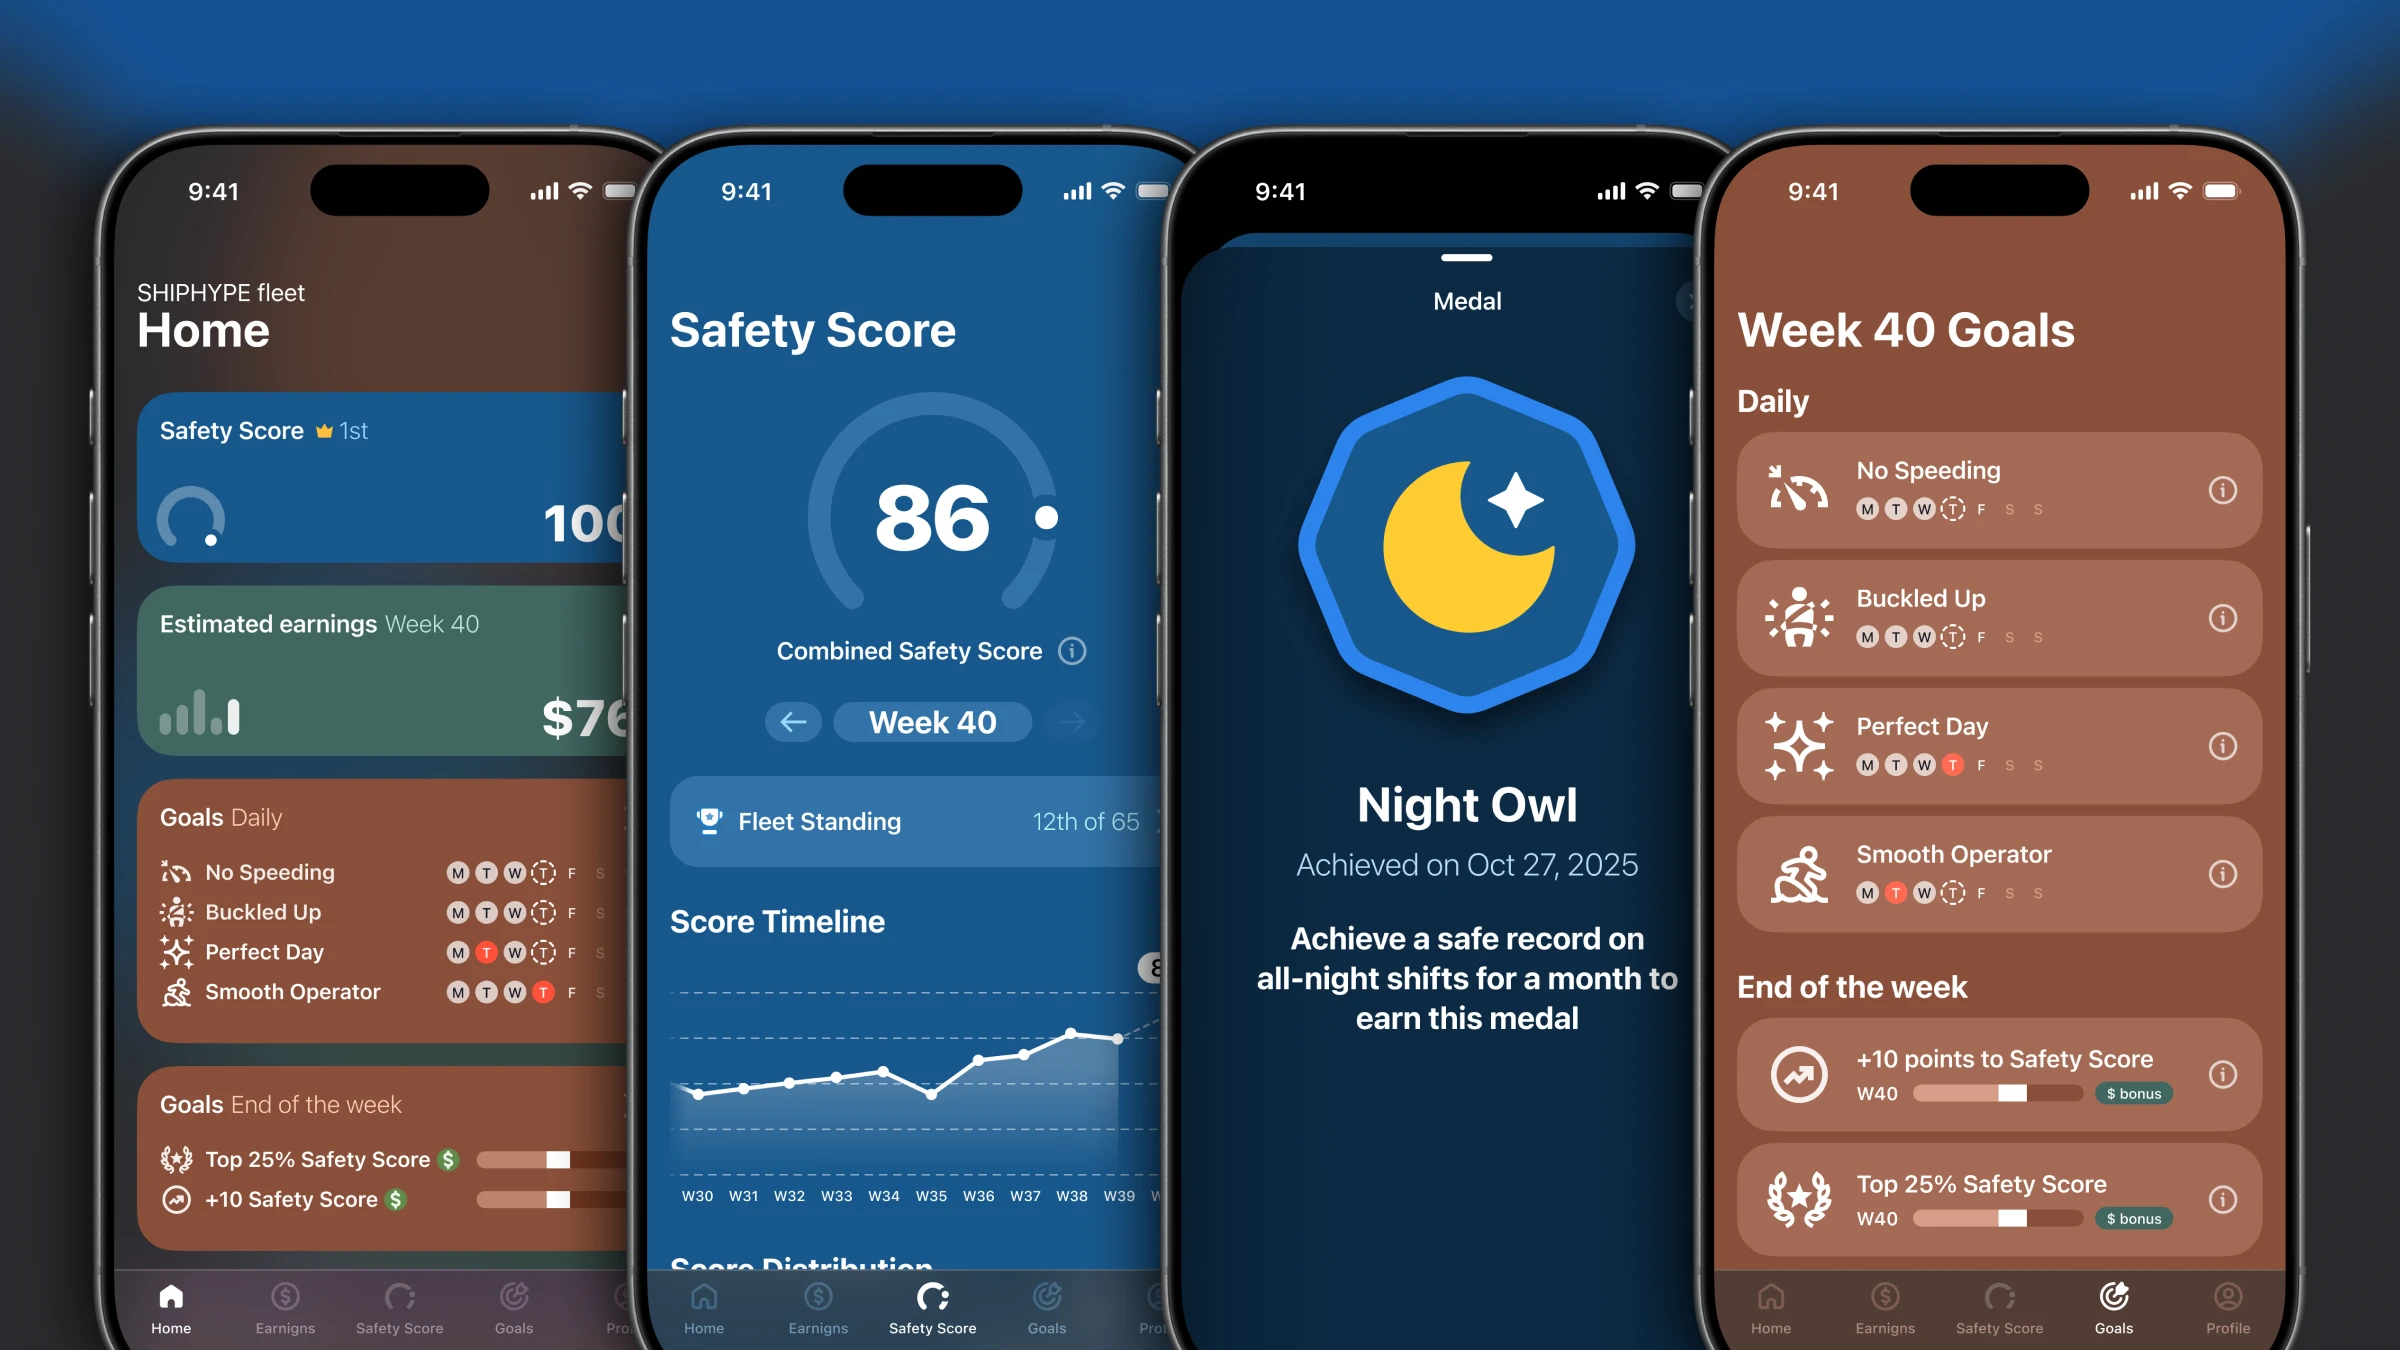
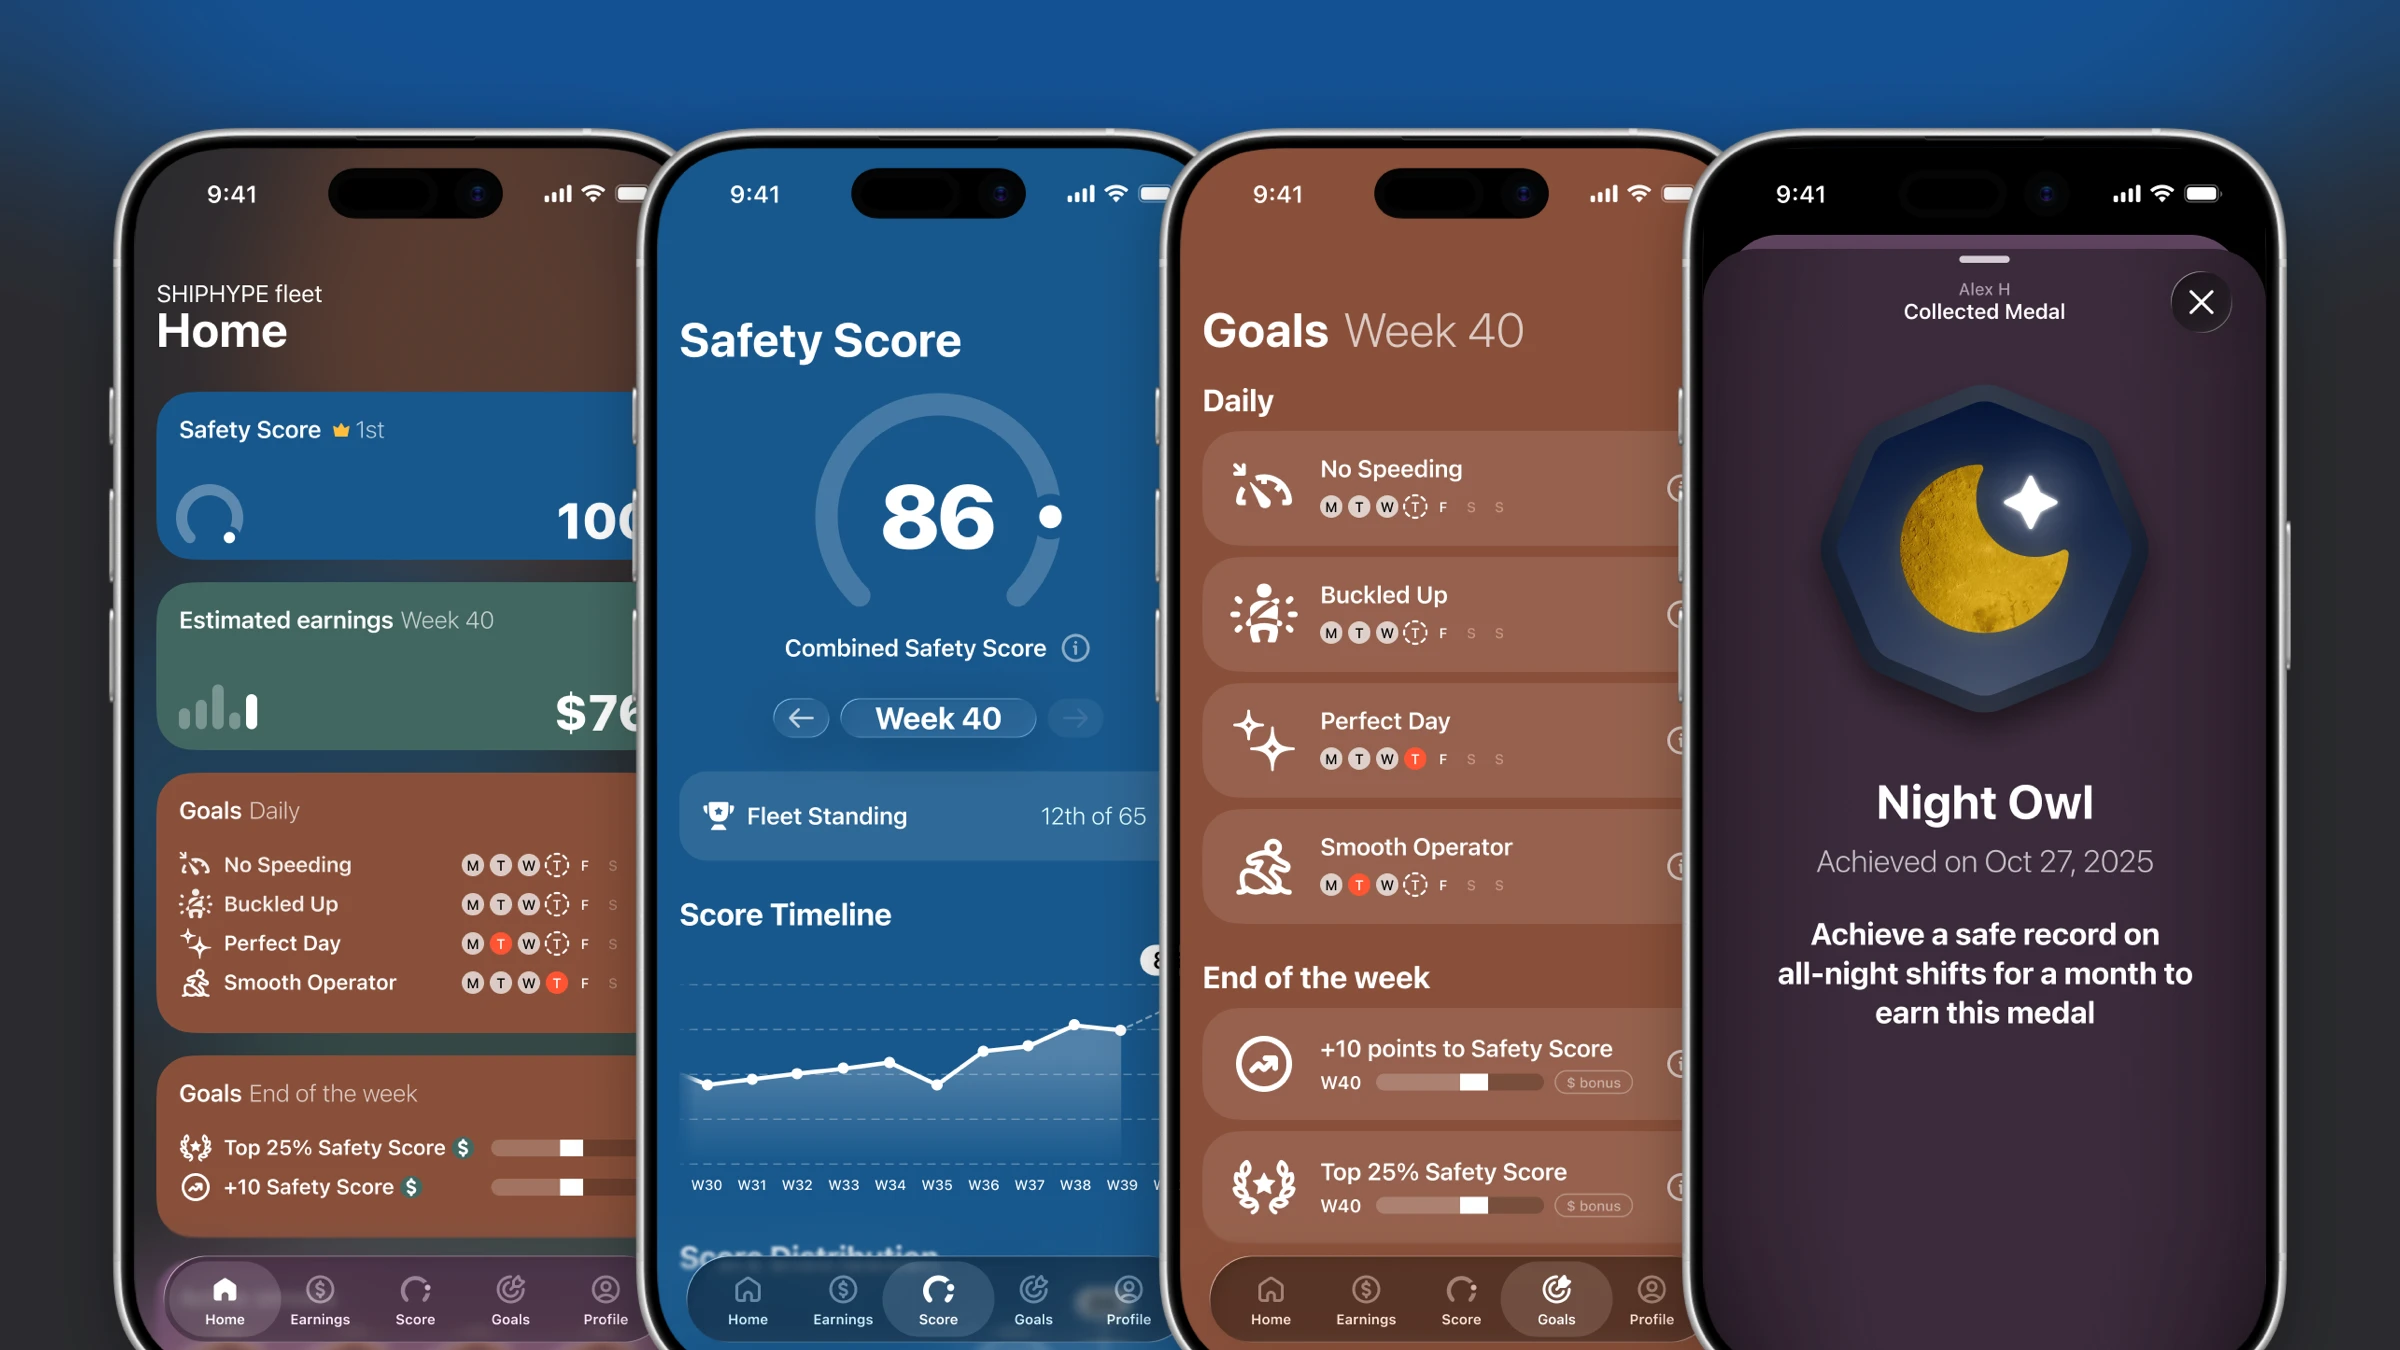
axenor driver mobile app project pub

diff --git a/projects/axenor-driver.html b/projects/axenor-driver.html
@@ -1,0 +1,128 @@
+<!DOCTYPE html>
+<html lang="en">
+
+<head>
+    <meta charset="utf-8">
+    <meta name="viewport" content="width=device-width, initial-scale=1.0, shrink-to-fit=no">
+    <title>[PROJECT TITLE] by Alex Hladkyi · Digital Product Designer</title>
+    <link rel="canonical" href="https://alexhladkyi.com/projects/axenor-driver.html">
+    <meta property="og:url" content="https://alexhladkyi.com/projects/axenor-driver.html">
+    <meta name="twitter:card" content="summary">
+    <meta name="twitter:description" content="A selection of design work by Alexander Hladkyi. I design iOS, android and desktop apps, websites, app icons and icon sets. Need a designer? Get in touch.">
+    <meta name="twitter:title" content="Alex Hladkyi • Digital Product Designer">
+    <meta property="og:type" content="website">
+    <meta name="description" content="[PROJECT DESCRIPTION]">
+    <meta property="og:image" content="https://alexhladkyi.com/assets/img/project-thumbnails/00-project-thumbnail-16by9.png">
+    <meta name="twitter:image" content="https://alexhladkyi.com/assets/img/project-thumbnails/00-project-thumbnail-16by9.png">
+    <link rel="apple-touch-icon" type="image/png" sizes="180x180" href="../assets/img/homescreen-ios.png">
+    <link rel="icon" type="image/png" sizes="32x32" href="../assets/img/favicon.png">
+    <link rel="icon" type="image/png" sizes="32x32" href="../assets/img/favicon.png">
+    <link rel="icon" type="image/png" sizes="180x180" href="../assets/img/homescreen-ios.png">
+    <link rel="icon" type="image/png" sizes="192x192" href="../assets/img/homescreen-android.png">
+    <link rel="stylesheet" href="../assets/bootstrap/css/bootstrap.min.css">
+    <link rel="stylesheet" href="../assets/css/styles.css">
+</head>
+
+<body>
+    <main>
+        <section>
+            <div class="container-fluid d-flex justify-content-center align-items-center logo-block"><a class="d-flex justify-content-center align-items-center hitarea" href="../index.html">
+                    <div class="cube-setup setup-anim">
+                        <div class="cube">
+                            <div class="faces face-top"></div>
+                            <div class="faces face-side1"></div>
+                            <div class="faces face-side2"></div>
+                            <div class="faces face-side3"></div>
+                            <div class="faces face-side4"></div>
+                            <div class="faces face-bottom"></div>
+                        </div>
+                    </div>
+                </a></div>
+        </section>
+        <section class="sectiongap">
+            <div class="container text-center">
+                <div class="row">
+                    <div class="col text-block">
+                        <h1>Mobile Driver app for Axenor</h1>
+                    </div>
+                </div>
+            </div>
+        </section>
+        <section class="sectiongap project-img">
+            <div class="container-fluid">
+                <div class="row">
+                    <div class="col"><img class="project-img" src="../assets/img/projects/axenor/axenor-driver-000-cover.webp"></div>
+                </div>
+                <section class="sectiongap"></section>
+                <div class="row proj-txt-mrgn">
+                    <div class="col text-block">
+                        <h2>About the project</h2>
+                        <p><a href="http://axenor.ai">Axenor.ai</a> is the safety and risk reduction platform for trucking fleets that integrates telematics, in‑cab signals, and operations data to drive coaching, incentives, and policy compliance.</p>
+                        <p>I was approached by the client to design a companion mobile app for their service that would surface key performance indicators to the drivers of trucking fleets.</p>
+                        <p>For v1 the focus was limited to:</p>
+                        <p>– Showing fleet drivers their Safety Scores and events that contribute to it<br>– Helping drivers track their daily and weekly goals<br>– Showing them estimated monetary end of the week bonuses<br>– Adding light gamification elements like streaks, achievements and leaderboards</p>
+                        <p><em>I was the sole designer on the project.</em></p>
+                    </div>
+                </div>
+                <div class="row row-cols-2 row-cols-sm-2 row-cols-md-2 row-cols-lg-3 row-cols-xl-3 row-cols-xxl-4 justify-content-center">
+                    <div class="col d-grid"><a href="../assets/img/projects/axenor/axenor-driver-001.webp"><img src="../assets/img/projects/axenor/axenor-driver-001.webp"></a></div>
+                    <div class="col d-grid"><a href="../assets/img/projects/axenor/axenor-driver-002.webp"><img src="../assets/img/projects/axenor/axenor-driver-002.webp"></a></div>
+                    <div class="col d-grid"><a href="../assets/img/projects/axenor/axenor-driver-003.webp"><img src="../assets/img/projects/axenor/axenor-driver-003.webp"></a></div>
+                    <div class="col d-grid"><a href="../assets/img/projects/axenor/axenor-driver-004.webp"><img src="../assets/img/projects/axenor/axenor-driver-004.webp"></a></div>
+                    <div class="col d-grid"><a href="../assets/img/projects/axenor/axenor-driver-005.webp"><img src="../assets/img/projects/axenor/axenor-driver-005.webp"></a></div>
+                    <div class="col d-grid"><a href="../assets/img/projects/axenor/axenor-driver-006.webp"><img src="../assets/img/projects/axenor/axenor-driver-006.webp"></a></div>
+                    <div class="col d-grid"><a href="../assets/img/projects/axenor/axenor-driver-007.webp"><img src="../assets/img/projects/axenor/axenor-driver-007.webp"></a></div>
+                    <div class="col d-grid"><a href="../assets/img/projects/axenor/axenor-driver-008.webp"><img src="../assets/img/projects/axenor/axenor-driver-008.webp"></a></div>
+                    <div class="col d-grid"><a href="../assets/img/projects/axenor/axenor-driver-009.webp"><img src="../assets/img/projects/axenor/axenor-driver-009.webp"></a></div>
+                    <div class="col d-grid"><a href="../assets/img/projects/axenor/axenor-driver-010.webp"><img src="../assets/img/projects/axenor/axenor-driver-010.webp"></a></div>
+                    <div class="col d-grid"><a href="../assets/img/projects/axenor/axenor-driver-011.webp"><img src="../assets/img/projects/axenor/axenor-driver-011.webp"></a></div>
+                    <div class="col d-grid"><a href="../assets/img/projects/axenor/axenor-driver-012.webp"><img src="../assets/img/projects/axenor/axenor-driver-012.webp"></a></div>
+                    <div class="col d-grid"><a href="../assets/img/projects/axenor/axenor-driver-013.webp"><img src="../assets/img/projects/axenor/axenor-driver-013.webp"></a></div>
+                    <div class="col d-grid"><a href="../assets/img/projects/axenor/axenor-driver-014.webp"><img src="../assets/img/projects/axenor/axenor-driver-014.webp"></a></div>
+                    <div class="col d-grid"><a href="../assets/img/projects/axenor/axenor-driver-015.webp"><img src="../assets/img/projects/axenor/axenor-driver-015.webp"></a></div>
+                    <div class="col d-grid"><a href="../assets/img/projects/axenor/axenor-driver-016.webp"><img src="../assets/img/projects/axenor/axenor-driver-016.webp"></a></div>
+                    <div class="col d-grid"><a href="../assets/img/projects/axenor/axenor-driver-017.webp"><img src="../assets/img/projects/axenor/axenor-driver-017.webp"></a></div>
+                </div>
+                <div class="row proj-txt-mrgn">
+                    <div class="col text-block">
+                        <h2>Android-specific adjustments</h2>
+                        <p>While proper Android support was a low priority for v1, I've made a number of quick android-specific changes to make the app not feel too alien to the platform.</p>
+                    </div>
+                </div>
+                <div class="row row-cols-2 row-cols-sm-2 row-cols-md-2 row-cols-lg-3 row-cols-xl-4 row-cols-xxl-4 justify-content-center">
+                    <div class="col d-grid"><a href="../assets/img/projects/axenor/axenor-driver-026.webp"><img src="../assets/img/projects/axenor/axenor-driver-026.webp"></a></div>
+                    <div class="col d-grid"><a href="../assets/img/projects/axenor/axenor-driver-027.webp"><img src="../assets/img/projects/axenor/axenor-driver-027.webp"></a></div>
+                    <div class="col d-grid"><a href="../assets/img/projects/axenor/axenor-driver-028.webp"><img src="../assets/img/projects/axenor/axenor-driver-028.webp"></a></div>
+                    <div class="col d-grid"><a href="../assets/img/projects/axenor/axenor-driver-029.webp"><img src="../assets/img/projects/axenor/axenor-driver-029.webp"></a></div>
+                    <div class="col d-grid"><a href="../assets/img/projects/axenor/axenor-driver-030.webp"><img src="../assets/img/projects/axenor/axenor-driver-030.webp"></a></div>
+                    <div class="col d-grid"><a href="../assets/img/projects/axenor/axenor-driver-031.webp"><img src="../assets/img/projects/axenor/axenor-driver-031.webp"></a></div>
+                    <div class="col d-grid"><a href="../assets/img/projects/axenor/axenor-driver-032.webp"><img src="../assets/img/projects/axenor/axenor-driver-032.webp"></a></div>
+                    <div class="col d-grid"><a href="../assets/img/projects/axenor/axenor-driver-033.webp"><img src="../assets/img/projects/axenor/axenor-driver-033.webp"></a></div>
+                    <div class="col d-grid"><a href="../assets/img/projects/axenor/axenor-driver-034.webp"><img src="../assets/img/projects/axenor/axenor-driver-034.webp"></a></div>
+                    <div class="col d-grid"><a href="../assets/img/projects/axenor/axenor-driver-035.webp"><img src="../assets/img/projects/axenor/axenor-driver-035.webp"></a></div>
+                </div>
+            </div>
+        </section>
+        <section class="sectiongap"></section>
+    </main>
+    <footer class="sectiongap">
+        <div class="container-fluid text-center">
+            <div class="row">
+                <div class="col text-block">
+                    <p><strong>Alex Hladkyi</strong><br><span class="aside">Product Designer / UX + UI + Interaction</span></p>
+                    <p><span class="aside">Based in Lviv, Ukraine</span><img class="flag" src="../assets/img/icons/ua.svg"></p>
+                    <p class="d-flex justify-content-center footer-urls"><a href="mailto:[email redacted]">Email&nbsp;me</a>&nbsp;<a href="https://calendar.app.google/w6tBpT1NmtdoLP268">Book&nbsp;a&nbsp;call</a><a href="https://wa.me/message/VFDWAVS2SCIDJ1">WhatsApp</a>&nbsp;<a href="http://t.me/Balsalmo">Telegram</a>&nbsp;<a href="http://www.linkedin.com/in/alexhladkyi">LinkedIn</a></p>
+                    <p><img class="pdficon" src="../assets/img/icons/pdf.svg"><a href="/pdf/alexhladkyi_resume.pdf">Resume</a></p>
+                </div>
+            </div>
+            <div class="row sectiongap">
+                <div class="col text-block">
+                    <p>© 2026</p>
+                </div>
+            </div>
+        </div>
+    </footer>
+    <script src="../assets/bootstrap/js/bootstrap.min.js"></script>
+</body>
+
+</html>

diff --git a/projects/000-template.html b/projects/000-template.html
@@ -1,0 +1,92 @@
+<!DOCTYPE html>
+<html lang="en">
+
+<head>
+    <meta charset="utf-8">
+    <meta name="viewport" content="width=device-width, initial-scale=1.0, shrink-to-fit=no">
+    <title>[PROJECT TITLE] by Alex Hladkyi · Digital Product Designer</title>
+    <link rel="canonical" href="https://alexhladkyi.com/projects/000-template.html">
+    <meta property="og:url" content="https://alexhladkyi.com/projects/000-template.html">
+    <meta name="twitter:card" content="summary">
+    <meta name="twitter:description" content="A selection of design work by Alexander Hladkyi. I design iOS, android and desktop apps, websites, app icons and icon sets. Need a designer? Get in touch.">
+    <meta name="twitter:title" content="Alex Hladkyi • Digital Product Designer">
+    <meta property="og:type" content="website">
+    <meta name="description" content="[PROJECT DESCRIPTION]">
+    <meta property="og:image" content="https://alexhladkyi.com/assets/img/project-thumbnails/00-project-thumbnail-16by9.png">
+    <meta name="twitter:image" content="https://alexhladkyi.com/assets/img/project-thumbnails/00-project-thumbnail-16by9.png">
+    <link rel="apple-touch-icon" type="image/png" sizes="180x180" href="../assets/img/homescreen-ios.png">
+    <link rel="icon" type="image/png" sizes="32x32" href="../assets/img/favicon.png">
+    <link rel="icon" type="image/png" sizes="32x32" href="../assets/img/favicon.png">
+    <link rel="icon" type="image/png" sizes="180x180" href="../assets/img/homescreen-ios.png">
+    <link rel="icon" type="image/png" sizes="192x192" href="../assets/img/homescreen-android.png">
+    <link rel="stylesheet" href="../assets/bootstrap/css/bootstrap.min.css">
+    <link rel="stylesheet" href="../assets/css/styles.css">
+</head>
+
+<body>
+    <main>
+        <section>
+            <div class="container-fluid d-flex justify-content-center align-items-center logo-block"><a class="d-flex justify-content-center align-items-center hitarea" href="../index.html">
+                    <div class="cube-setup setup-anim">
+                        <div class="cube">
+                            <div class="faces face-top"></div>
+                            <div class="faces face-side1"></div>
+                            <div class="faces face-side2"></div>
+                            <div class="faces face-side3"></div>
+                            <div class="faces face-side4"></div>
+                            <div class="faces face-bottom"></div>
+                        </div>
+                    </div>
+                </a></div>
+        </section>
+        <section class="sectiongap">
+            <div class="container text-center">
+                <div class="row">
+                    <div class="col text-block">
+                        <h1>Mobile app for [CLIENT]</h1>
+                    </div>
+                </div>
+            </div>
+        </section>
+        <section class="sectiongap project-img">
+            <div class="container-fluid">
+                <div class="row">
+                    <div class="col"><img class="project-img" src="../assets/img/16by9imageplaceholder.webp"></div>
+                </div>
+                <section class="sectiongap"></section>
+                <div class="row proj-txt-mrgn">
+                    <div class="col text-block">
+                        <h2>About the project</h2>
+                        <p>[WHO'S THE CLIENT]</p>
+                        <p>[DETAILS ABOUT THE PROJECT]</p>
+                        <p><em>[MY ROLE IN THE PROJECT]</em></p>
+                    </div>
+                </div>
+                <div class="row row-cols-2 row-cols-sm-2 row-cols-md-2 row-cols-lg-3 row-cols-xl-3 row-cols-xxl-4 justify-content-center">
+                    <div class="col d-grid"><a href="000-template.html"><img src="../assets/img/16by9imageplaceholder.webp"></a></div>
+                </div>
+            </div>
+        </section>
+        <section class="sectiongap"></section>
+    </main>
+    <footer class="sectiongap">
+        <div class="container-fluid text-center">
+            <div class="row">
+                <div class="col text-block">
+                    <p><strong>Alex Hladkyi</strong><br><span class="aside">Product Designer / UX + UI + Interaction</span></p>
+                    <p><span class="aside">Based in Lviv, Ukraine</span><img class="flag" src="../assets/img/icons/ua.svg"></p>
+                    <p class="d-flex justify-content-center footer-urls"><a href="mailto:[email redacted]">Email&nbsp;me</a>&nbsp;<a href="https://calendar.app.google/w6tBpT1NmtdoLP268">Book&nbsp;a&nbsp;call</a><a href="https://wa.me/message/VFDWAVS2SCIDJ1">WhatsApp</a>&nbsp;<a href="http://t.me/Balsalmo">Telegram</a>&nbsp;<a href="http://www.linkedin.com/in/alexhladkyi">LinkedIn</a></p>
+                    <p><img class="pdficon" src="../assets/img/icons/pdf.svg"><a href="/pdf/alexhladkyi_resume.pdf">Resume</a></p>
+                </div>
+            </div>
+            <div class="row sectiongap">
+                <div class="col text-block">
+                    <p>© 2026</p>
+                </div>
+            </div>
+        </div>
+    </footer>
+    <script src="../assets/bootstrap/js/bootstrap.min.js"></script>
+</body>
+
+</html>

diff --git a/404.html b/404.html
@@ -50,20 +50,16 @@
             </div>
         </section>
         <section id="projects-grid" class="sectiongap">
-            <div class="container-fluid d-grid projects-grid">
-                <div class="project-card locked">
-                    <div class="project-card-img" style="background: url(&quot;assets/img/project-thumbnails/axenor-driver-app-thmbn.webp&quot;);">
-                        <div class="lock-icon-container">
-                            <div class="project-card-icon-locked"></div>
-                        </div>
-                    </div>
+            <div class="container-fluid d-grid projects-grid"><a class="project-card" href="projects/axenor-driver.html">
+                    <div class="project-card-img" style="background: url(&quot;assets/img/project-thumbnails/axenor-driver-app-thmbn.webp&quot;);"></div>
                     <div class="project-card-info">
                         <div class="project-card-info-txt">
                             <h6>Mobile, Transportation, Workforce Management, 0→1</h6>
                             <h3>Axenor Driver</h3>
                         </div>
+                        <div class="project-card-info-icon"></div>
                     </div>
-                </div><a class="project-card" href="projects/usc-spirit-station.html">
+                </a><a class="project-card" href="projects/usc-spirit-station.html">
                     <div class="project-card-img" style="background: url(&quot;assets/img/project-thumbnails/usc-spirit-station-thmbn.webp&quot;);"></div>
                     <div class="project-card-info">
                         <div class="project-card-info-txt">

diff --git a/index.html b/index.html
@@ -53,20 +53,16 @@
             </div>
         </section>
         <section id="projects-grid" class="sectiongap">
-            <div class="container-fluid d-grid projects-grid">
-                <div class="project-card locked">
-                    <div class="project-card-img" style="background: url(&quot;assets/img/project-thumbnails/axenor-driver-app-thmbn.webp&quot;);">
-                        <div class="lock-icon-container">
-                            <div class="project-card-icon-locked"></div>
-                        </div>
-                    </div>
+            <div class="container-fluid d-grid projects-grid"><a class="project-card" href="projects/axenor-driver.html">
+                    <div class="project-card-img" style="background: url(&quot;assets/img/project-thumbnails/axenor-driver-app-thmbn.webp&quot;);"></div>
                     <div class="project-card-info">
                         <div class="project-card-info-txt">
                             <h6>Mobile, Transportation, Workforce Management, 0→1</h6>
                             <h3>Axenor Driver</h3>
                         </div>
+                        <div class="project-card-info-icon"></div>
                     </div>
-                </div><a class="project-card" href="projects/usc-spirit-station.html">
+                </a><a class="project-card" href="projects/usc-spirit-station.html">
                     <div class="project-card-img" style="background: url(&quot;assets/img/project-thumbnails/usc-spirit-station-thmbn.webp&quot;);"></div>
                     <div class="project-card-info">
                         <div class="project-card-info-txt">

diff --git a/projects/attorneys-on-demand.html b/projects/attorneys-on-demand.html
@@ -57,7 +57,7 @@
                 <div class="row proj-txt-mrgn">
                     <div class="col text-block">
                         <h2>About the project</h2>
-                        <p>Designs for a mobile app for Attorneys On Demand — the first national court appearance service that provides hearing coverage across the US.</p>
+                        <p>Designs for a mobile app for <a href="http://www.attorneysondemand.net">Attorneys On Demand</a> — the first national court appearance service that provides hearing coverage across the US.</p>
                         <p>The challenge was in bringing primary features of a primarily web-based service to mobile.</p>
                         <p>My role included:<br>– User experience (UX)<br>– User flows<br>– Wireframes<br>– Prototypes<br>– User interface (UI)</p>
                     </div>

diff --git a/projects/usc-spirit-driver.html b/projects/usc-spirit-driver.html
@@ -62,7 +62,7 @@
                 <div class="row proj-txt-mrgn">
                     <div class="col text-block">
                         <h2>About the project</h2>
-                        <p>USC is a Ukrainian manufacturer of weighbridges for heavy goods vehicles and rail.</p>
+                        <p><a href="http://usc.ua/home/en">USC</a> is a Ukrainian manufacturer of weighbridges for heavy goods vehicles and rail.</p>
                         <p>The Driver mobile app was a third piece of the ecosystem, alongside <a href="usc-spirit-station.html">Spirit Station</a> and <a href="usc-spirit-owner.html">Spirit Owner</a>, targeted at drivers of heavy goods vehicles.</p>
                         <p>The designs below are for the 1.0 version of the app. The focus was limited to the following three areas: help drivers find Spirit-enabled weighing stations, speed up their weighing process, and provide access to their digitally signed weighing records.</p>
                         <p><em>I was the sole product designer on the project.</em></p>

diff --git a/projects/usc-spirit-owner.html b/projects/usc-spirit-owner.html
@@ -62,7 +62,7 @@
                 <div class="row proj-txt-mrgn">
                     <div class="col text-block">
                         <h2>About the project</h2>
-                        <p>USC is a Ukrainian manufacturer of weighbridges for heavy goods vehicles and rail.</p>
+                        <p><a href="http://usc.ua/home/en">USC</a> is a Ukrainian manufacturer of weighbridges for heavy goods vehicles and rail.</p>
                         <p>Spirit Owner is the second piece in the Spirit ecosystem made for weighing station owners and staff not directly involved with operating the weighbridges.</p>
                         <p>The app was designed to give owners and management staff access to weighing logs of all their weighbridges, provide notifications for any weighbridge hardware or software issues, and alert them about fraud attempts.</p>
                         <p><em>I was the sole product designer on the project.</em></p>

diff --git a/projects/usc-spirit-station.html b/projects/usc-spirit-station.html
@@ -63,7 +63,7 @@
                 <div class="row proj-txt-mrgn">
                     <div class="col text-block">
                         <h2>About the project</h2>
-                        <p>USC is a Ukrainian manufacturer of weighbridges for heavy goods vehicles and rail.</p>
+                        <p><a href="http://usc.ua/home/en">USC</a> is a Ukrainian manufacturer of weighbridges for heavy goods vehicles and rail.</p>
                         <p>I was hired to design the client/customer-facing side of the new weighbridge ecosystem. This application was the first piece and would be primarily used by weighbridge operators at smaller or mobile weighing stations.</p>
                         <p><em>I was the sole product designer on the project.</em></p>
                     </div>

diff --git a/assets/css/styles.css b/assets/css/styles.css
@@ -39,6 +39,7 @@ li {
   height: 120px;
   text-decoration: none;
   border: none;
+  will-change: transform, scale;
 }
 
 .cube-setup {